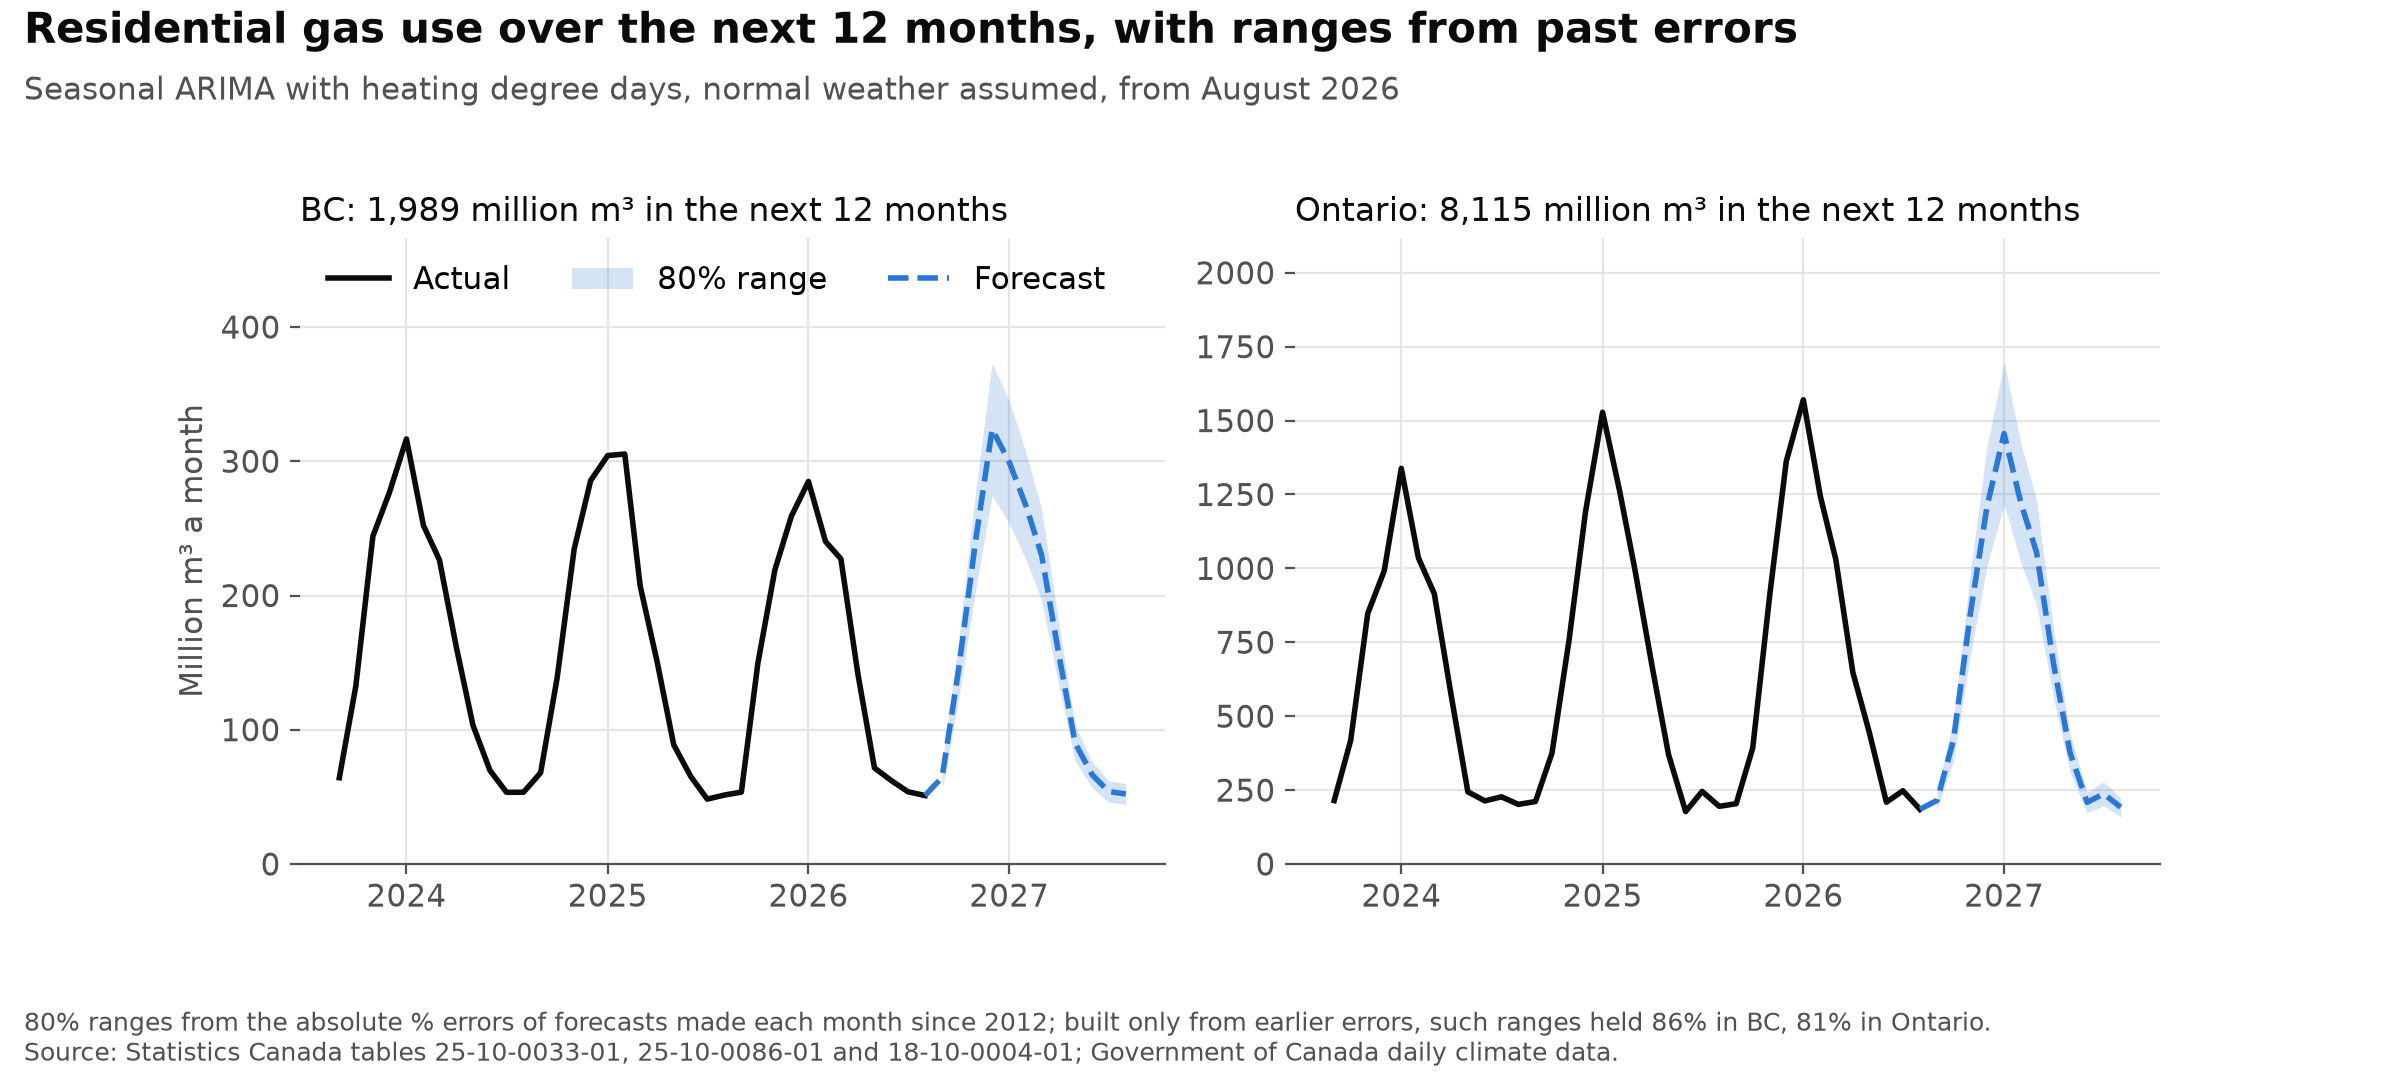
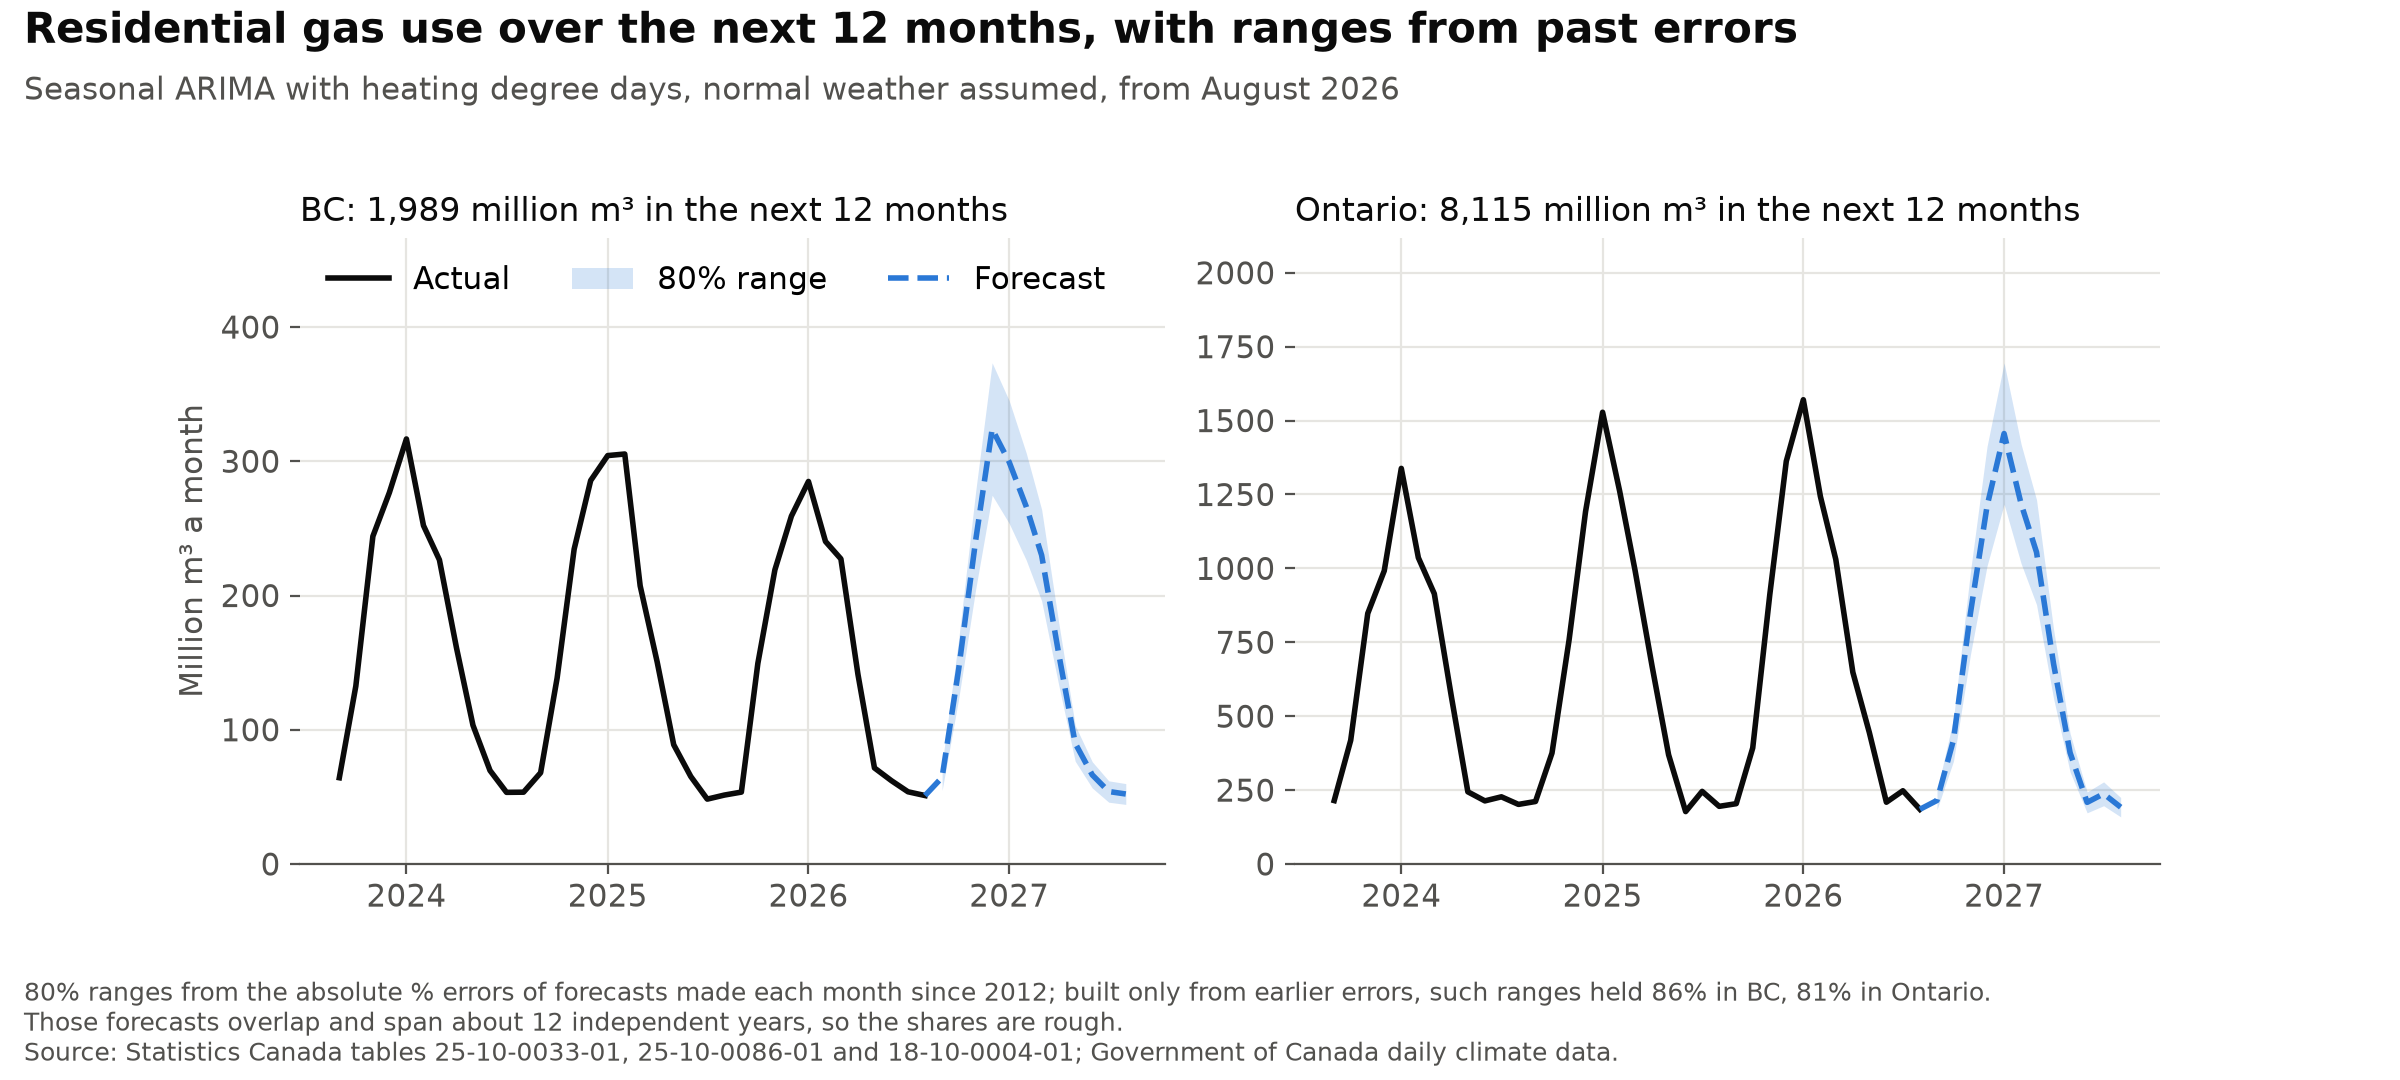
Say how few independent years the forecast coverage rests on
The 86% and 81% come from 1,548 overlapping forecasts over about 12 years, and
the 12-month ranges from 153 overlapping totals, about 13 years. Added to the
README, its Limits and the forecast figure's caption, and replaced 'calibrated'
in the introduction. No forecast number moved.

Changed region(s): [[0.0, 0.9167, 0.8438, 0.9778]]

diff --git a/forecast.py b/forecast.py
@@ -153,11 +153,15 @@ def main():
                   "mean_abs_error_pct": round(float((t.forecast / t.actual - 1).abs().mean()) * 100, 1)}
         own = e.actual.between(e.low_80, e.high_80).mean()
         held = (e.abs_err <= e.width)[e.width.notna()].mean()
-        results[p] = {"errors": errors(bt), "years": year_errors(bt), "own": own, "held": held, "total": twelve}
+        scored = e[e.width.notna()]
+        span = ((scored.month.max() - scored.month.min()).n + 1) / 12  # forecasts overlap, so the independent years are few
+        results[p] = {"errors": errors(bt), "years": year_errors(bt), "own": own, "held": held, "total": twelve, "span": span}
         charts[p] = chart_data(np.exp(y), e, bt[bt.model == TOLD], fans[p])
         print(f"{p}: {bt.origin.nunique()} origins, {bt.origin.min()} to {bt.origin.max()}")
         print(results[p]["errors"].loc[[1, 3, 6, 12]].round(1).to_string())
-        print(f"80% ranges held: the model's own {own:.0%}, conformal (earlier errors only) {held:.0%}")
+        print(f"80% ranges held: the model's own {own:.0%}, conformal (earlier errors only) {held:.0%}, from {len(scored)} "
+              f"forecasts at {scored.origin.nunique()} overlapping origins, outcomes {scored.month.min()} to {scored.month.max()} "
+              f"({span:.1f} years); the 12-month range from {len(t)} overlapping totals")
         print("A calendar year's total, mean absolute % error:", results[p]["years"].abs().mean().round(1).to_dict())
         print("The next 12 months:", twelve)
         print("Model fits and warnings:\n", fit_counts[p].to_string())
@@ -192,7 +196,8 @@ def main():
     gas.save(fig, "forecast.png", "Residential gas use over the next 12 months, with ranges from past errors",
              f"Seasonal ARIMA with heating degree days, normal weather assumed, from {series[PROVINCES[0]].index[-1]:%B %Y}",
              f"80% ranges from the absolute % errors of forecasts made each month since {FIRST_ORIGIN[:4]}; built only from "
-             f"earlier errors, such ranges held {held}.\n" + gas.SOURCE)
+             f"earlier errors, such ranges held {held}.\nThose forecasts overlap and span about "
+             f"{results[PROVINCES[0]]['span']:.0f} independent years, so the shares are rough.\n" + gas.SOURCE)
 
     # A year ahead, with and without knowing the weather
     fig, axes = plt.subplots(1, 2, figsize=(12, 5.4), sharey=True)

diff --git a/README.md b/README.md
@@ -2,7 +2,7 @@
 
 [![tests](https://github.com/atamalfuzi/canada_gas_demand/actions/workflows/tests.yml/badge.svg)](https://github.com/atamalfuzi/canada_gas_demand/actions/workflows/tests.yml)
 
-Five questions about household natural gas in Canada since 1981, each answered with public data and a method suited to it, from regressions and partial pooling to heating-curve models, calibrated forecasts and machine learning. Python, with pandas, statsmodels and scikit-learn. The price response is measured in British Columbia, Ontario and Alberta; the other questions add Saskatchewan, Manitoba and Quebec.
+Five questions about household natural gas in Canada since 1981, each answered with public data and a method suited to it, from regressions and partial pooling to heating-curve models, forecasts with ranges from past errors and machine learning. Python, with pandas, statsmodels and scikit-learn. The price response is measured in British Columbia, Ontario and Alberta; the other questions add Saskatchewan, Manitoba and Quebec.
 
 **[Live dashboard](https://atamalfuzi.github.io/canada_gas_demand/)**, rebuilt on the 28th of each month from Statistics Canada's latest data: the latest month's gas use in BC and Ontario against what weather, season, price and trend predict, the last 12 months against the 12 before, the real price, a 12-month forecast with an 80% range, and the elasticities re-estimated with all data to date. **[Write-up with interactive charts](https://atamalfuzi.github.io/canada-gas-demand.html).** The results below are as of October 2026 (data through August 2026).
 
@@ -76,7 +76,7 @@ A price elasticity of −0.1 means a 10% higher real price cuts gas use per cust
 | Ontario: same month last year | 11.6 | 11.7 | 11.6 |
 | *Ontario: ARIMA told the weather* | *7.5* | *8.5* | *8.3* |
 
-- **Ranges from past errors hold as often as stated; the model's own do not in Ontario.** Ranges set from the model's absolute % errors at each horizon (conformal prediction), built at each point only from errors already known, held 86% of outcomes in BC and 81% in Ontario at a stated 80%. The model's own 80% ranges held 82% and 62%. From August 2026, the forecast for September 2026 to August 2027 is 1,989 million m³ in BC (80% range 1,858–2,120) and 8,115 million m³ in Ontario (7,174–9,057).
+- **Ranges from past errors held about as often as stated, on a short record; the model's own fell short in Ontario.** Ranges set from the model's absolute % errors at each horizon (conformal prediction), built at each point only from errors already known, held 86% of outcomes in BC and 81% in Ontario at a stated 80%. The model's own 80% ranges held 82% and 62%. These shares rest on far fewer independent checks than the count of forecasts suggests. The 86% and 81% come from 1,548 forecasts made from 140 overlapping monthly origins, with outcomes from January 2015 to August 2026, which is about 12 independent years. The model's own ranges have about 14. With so few years, a gap of several points from 80% could be chance, so read 86% and 81% as about right, not as exact. From August 2026, the forecast for September 2026 to August 2027 is 1,989 million m³ in BC (80% range 1,858–2,120) and 8,115 million m³ in Ontario (7,174–9,057). Those two ranges come from 153 overlapping 12-month totals, about 13 independent years, so their ends are rough too.
 
 ### 5. What does machine learning see?
 
@@ -121,6 +121,7 @@ All estimates are in [`output/`](output): the price responses in [`elasticities.
 - **The added provinces' reporting levels are inferred.** Manitoba's 2007 and Quebec's 2019 levels come from jumps in the data tested in the model, not from documentation of how the tables changed, and the six-province results depend on them.
 - **Year-round use is whatever does not follow the temperature.** Besides more efficient water heaters and appliances, a changing mix of customers, such as smaller new homes or apartment buildings counted as one customer, moves it. Quebec's heating curves fit least well.
 - **Forecasts assume normal weather,** which is most of their error, and partial dependence shows what a model learned from the data, not what would happen if one input changed alone.
+- **The forecast checks overlap.** A forecast made in one month shares most of its target months with the forecast made the month before, so the checks on the ranges amount to about 12–14 independent years. That is too few to show that the ranges are exact.
 - **Importance shuffles one feature at a time.** Features that overlap, such as temperature and calendar month or price and province, can stand in for each other, so a low score does not mean the model would do as well without that feature.
 - **Prices are not set by an experiment.** Residential gas rates are regulated and follow wholesale markets, so they respond little to one province's demand within a year, but the estimates are associations under the model's assumptions, not proof of cause.
 - **Short samples and a model choice.** The annual models have 32–44 years. How much the elasticity appears to change over time depends on including the efficiency trend: without it, the elasticity drifts to implausible positive values after 2010.
